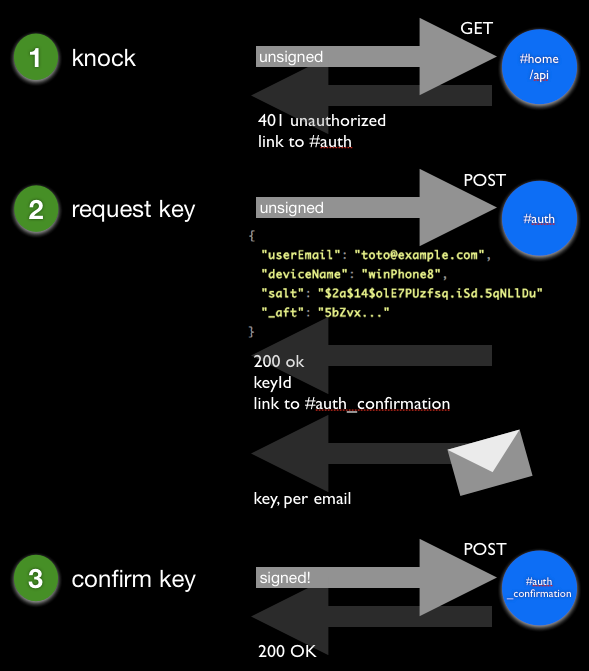
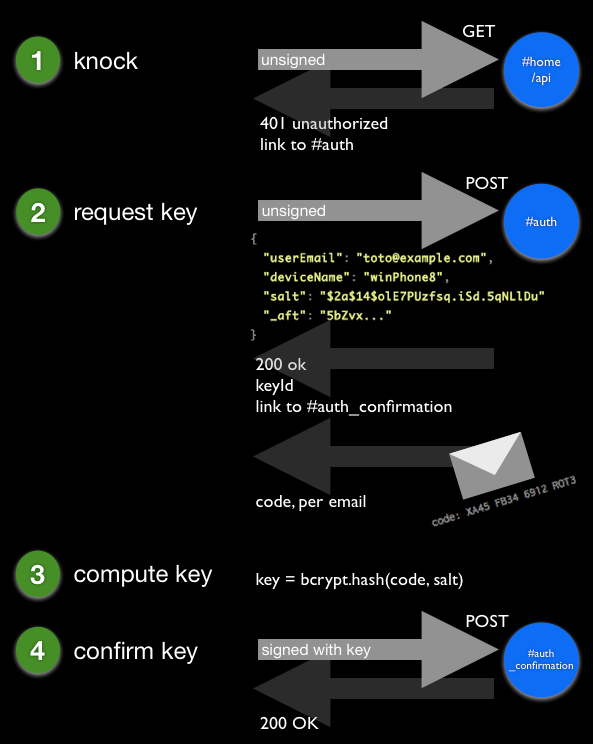
distinguish code / key

diff --git a/css/site.css b/css/site.css
@@ -10633,30 +10633,25 @@ img.brand {
 }
 
 /* line 58, ../_scss/site.scss */
-img.screenshot {
+img.shadowed {
   border: 1px solid #888888;
   box-shadow: 5px 5px 3px #888888;
   margin-bottom: 1.4em;
 }
 
 /* line 64, ../_scss/site.scss */
-img.shadowed {
-  box-shadow: 5px 5px 3px #888888;
-}
-
-/* line 68, ../_scss/site.scss */
 h1 {
   font-size: 150%;
   margin-bottom: 1.4em;
 }
 
-/* line 72, ../_scss/site.scss */
+/* line 68, ../_scss/site.scss */
 h2 {
   font-size: 140%;
   margin-top: 1.4em;
 }
 
-/* line 76, ../_scss/site.scss */
+/* line 72, ../_scss/site.scss */
 h3 {
   font-size: 120%;
   margin-top: 1.1em;

diff --git a/_layouts/api.html b/_layouts/api.html
@@ -22,10 +22,11 @@ layout: site
 
           <li class="nav-header">flow</li>
           <li><a href="/api/flow.html">flow</a></li>
+          <li><a href="/api/flow.html#follow">follow</a></li>
           <li><a href="/api/flow.html#rels">rels</a></li>
 
           <li class="nav-header">sample code</li>
-          <li><a href="/api/vb_client.html">vb client</a></li>
+          <li><a href="https://github.com/mycourtpro/mycourtpro.github.io/tree/master/_code">_code/</a></li>
         </ul>
       </div>
     </div>

diff --git a/_scss/site.scss b/_scss/site.scss
@@ -55,14 +55,10 @@ img.brand {
   font-size: 80%;
 }
 
-img.screenshot {
+img.shadowed {
   border: 1px solid #888888;
   box-shadow: 5px 5px 3px #888888;
   margin-bottom: 1.4em;
-}
-
-img.shadowed {
-  box-shadow: 5px 5px 3px #888888;
 }
 
 h1 {

diff --git a/api/auth.md b/api/auth.md
@@ -16,7 +16,11 @@ The first step is to [obtain a secret key](#secret). Once this is done, keep tha
 
 <h2 id="secret">Obtaining a secret key</h2>
 
+There are 4 steps to obtain a key. Those steps are a dialog between the client and the MyCourt system. Here is a graphical depiction:
+
 <img class="shadowed" src="/images/auth_steps.png" />
+
+Maybe, the fifth step would be "keep the key, and keep it secret".
 
 <h3 id="knock">Knocking at the door</h3>
 
@@ -84,7 +88,7 @@ So, to announce yourself, you have to post to ```https://staging.mycourt.pro/api
 }
 {% endhighlight %}
 
-This will prompt the MyCourt system to send you, via email, your secret key.
+This will prompt the MyCourt system to send you, via email, a code.
 
 The answer to the post will be something like:
 
@@ -102,11 +106,25 @@ The answer to the post will be something like:
 
 Prompting you to POST an empty JSON document to ```https://staging.mycourt.pro/api/auth/{keyId}``` as a confirmation.
 
-<h3 id="confirm">Confirm the secret key</h3>
+The code received by email is a string like "AF4G RT23 7RS4 123Q". It's meant to be entered easily in a mobile device.
+
+<h3 id="compute">Compute the key</h3>
+
+The code received by email is used to compute the secret key that is shared between you (client/device) and the MyCourt system.
+
+In Visual Basic, that would look like:
+
+{% highlight vb.net %}
+dim secret = Bcrypt.HashPassword(code.Replace(" ", ""), salt)
+{% endhighlight %}
+
+<h3 id="confirm">Confirm the key</h3>
 
 As just said, once you have requested a secret key over HTTPS and receveid by email, you have to confirm it via the ```#auth_confirmation``` link.
 
 This confirmation is only a matter of sending an empty JSON document (yes, ```{}``` is sufficient) via a POST to the ```#auth_confirmation``` link. But, this request has to be signed (with the secret key).
+
+Keep that secret key safely in your device/client. The platform you're developing for probably has a way to store such credentials in a secure way.
 
 
 <h2 id="signing">Request signing</h2>
